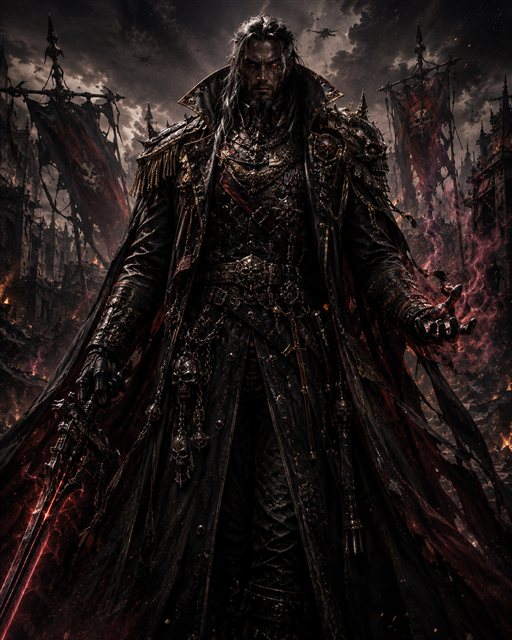
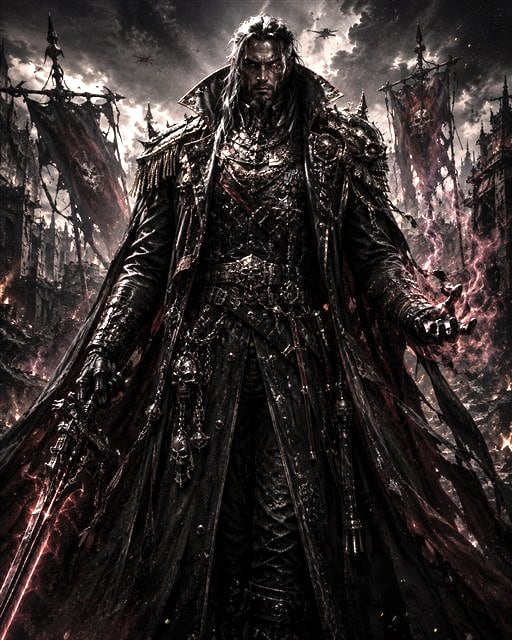
2P協力のHUD配置を左右で統一、5面ボスの立ち絵を明るく
① 2対2でプレイヤー1と2の並びが左右対称（鏡写し）だった
   1P「名前→Lv」左寄せ / 2P「Lv→名前」右寄せ。対戦相手なら鏡写しで
   正しいが、2対2の右上は「味方」なので同じ見え方であるべき。
   協力プレイのときだけ ally-slot を付けて自分側と同一レイアウトにした。
   - 実測: 名前 x=108/x=500（各ブロックの左端）、Lvはその57px後。
     以前は 2P だけ名前 x=689・Lv x=746 と右詰め＆逆順だった
   - 3か所直す必要があった: DOM順は order で入れ替え、text-align は
     HTMLのインライン style が効いていたのでCSSへ移動、さらに .pname は
     flex なので justify-content も別途指定（text-align だけでは動かない）
   - 通常1P・アリーナ・ハードモードのボス枠は従来通り右詰めのまま

② 証明書で5面ボスだけシルエットに見える
   状態は正しく同期していた（撃破フラグは両画面で完全一致を実測確認）。
   原因は boss5.jpg だけ極端に暗く、撃破済みでも表示輝度 21.9〜25.2 で、
   未撃破の表示（約25）と見分けがつかなかったこと。
   - boss5.jpg を明度1.9倍で持ち上げ（平均 22.9→42.2、他ボスは43〜88）
   - 乗算なので黒は黒のまま。暗い雰囲気は保ったまま人物だけ浮かぶ
   - 結果: 撃破済み 40.7/46.9、未撃破 23.3 と明確に差がついた
   - なお sharp の gamma(>1) は明るくではなく暗くなる（最初これで失敗）

検証: ハードモードHUDの1P/2P一致13項目、スモーク、証明書36通り、
静的監査すべてクリーン。

diff --git a/public/style.css b/public/style.css
@@ -926,6 +926,11 @@ button:active {
 #hpBlockTheirs .pname {
   justify-content: flex-end; /* that block is right-aligned; flex needs telling separately */
 }
+/* ...except in co-op, where this slot is a teammate laid out exactly like the player own block.
+   text-align alone cannot do this: .pname is a flex row, so the items need justify-content too. */
+#hpBlockTheirs.ally-slot .pname {
+  justify-content: flex-start;
+}
 /* Names themselves never break mid-word. Japanese still wraps fine under `normal` (it breaks
    between characters by default), so this only protects Latin player names — which are capped
    at 12 characters, so they cannot run away. */
@@ -966,6 +971,30 @@ button:active {
 .lv-badge-left {
   margin-left: 0;
   margin-right: 6px;
+}
+/* In 2v2 the top-right slot holds a TEAMMATE, not an opponent. The mirrored versus layout (name
+   then Lv on the left, Lv then name on the right) made the two players read differently, which is
+   wrong for two people on the same side — so in co-op only, the ally slot is laid out exactly
+   like the player's own. Every other mode keeps the mirrored arrangement for the boss, where the
+   Lv-first order also exists to stop the name sliding under the mute button. */
+/* Was an inline style="text-align:right" on the element itself, which no class rule could
+   override — moved here so the co-op case below can. */
+.hp-block.hp-block-right {
+  text-align: right;
+}
+.hp-block.hp-block-right.ally-slot {
+  text-align: left;
+}
+.hp-block.ally-slot .pname > #lvTheirs {
+  order: 1;
+  margin-left: 6px;
+  margin-right: 0;
+}
+.hp-block.ally-slot .pname > #downedTheirs {
+  order: 2;
+}
+.hp-block.ally-slot .buff-row-right {
+  justify-content: flex-start;
 }
 /* Shown full-screen-width but non-blocking (doesn't cover the arena) to the specific player
    who was downed first, telling them the match isn't over — their ally is still fighting. */

diff --git a/public/index.html b/public/index.html
@@ -362,7 +362,7 @@
          instead, so both human players' HP sit together on the top row (per explicit
          request); the boss's own bar moves to the bottom row below. Color class is set in
          JS (color-boss / color-ally) since which one this slot represents varies by mode. -->
-    <div class="hp-block" style="text-align:right" id="hpBlockTheirs">
+    <div class="hp-block hp-block-right" id="hpBlockTheirs">
       <!-- Lv badge sits BEFORE the name here, unlike the left block: this block is right-aligned,
            so anything appended after the name grows toward the screen edge and slides under the
            mute button. Putting it first keeps the name ending exactly where it always did. -->

diff --git a/public/client.js b/public/client.js
@@ -3884,6 +3884,9 @@
     }
     hpTheirs.classList.toggle('color-boss', !isCoop);
     hpTheirs.classList.toggle('color-ally', isCoop);
+    // Co-op puts a teammate in this slot, so it is laid out identically to the player's own
+    // block rather than mirrored — see .hp-block.ally-slot.
+    hpBlockTheirs.classList.toggle('ally-slot', isCoop);
     if (topRight) {
       // The boss stays present-but-inert (untargetable, full hp) during a mob wave — see
       // game.js's mobWaveActive damage exclusion — so its hp bar never actually moves here;
